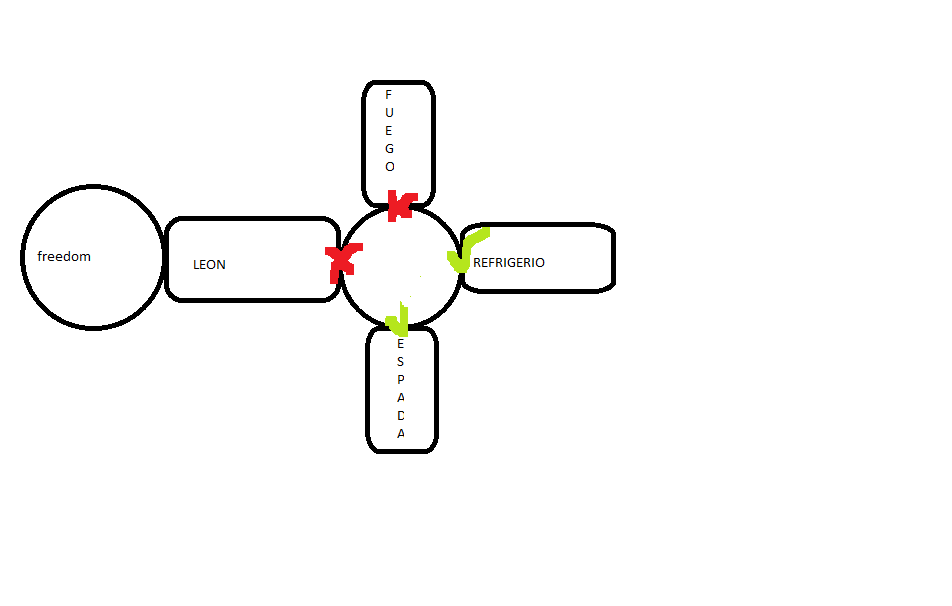
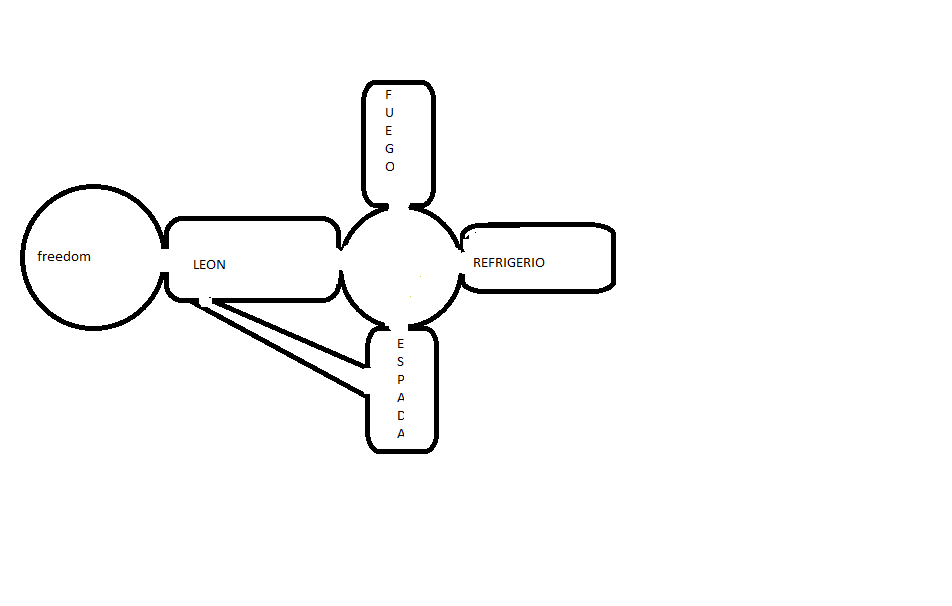
creada salida alternativa y mensajes de salas nuevos

diff --git a/Game.java b/Game.java
@@ -38,19 +38,18 @@ public class Game
 
         // create the rooms
         circulo = new Room("sala circular romana con puertas");
-        oeste = new Room("sala oeste");
-        este = new Room("sala este");
-        norte = new Room("sala norte");
-        sur = new Room("sala sur");
-        freedom = new Room("sala libertad");
+        oeste = new Room("sala oeste,hay un leon");
+        este = new Room("sala este,con refrigerio");
+        norte = new Room("sala norte,sala con fuego");
+        sur = new Room("sala sur , hay una espada");
+        freedom = new Room("sala libertad,has derrotado al leon y eres LIBRE");
 
         // initialise room exits
-        circulo.setExits(norte,este,sur,oeste);
-        oeste.setExits(null, circulo, null,freedom);
-        este.setExits(null, null, null, circulo);
-        norte.setExits( null,null, circulo, null);
-        sur.setExits( circulo, null,null,null);
-        
+        circulo.setExits(norte,este,sur,oeste,null);
+        oeste.setExits(null, circulo, null,freedom,sur);
+        este.setExits(null, null, null, circulo,null);
+        norte.setExits( null,null, circulo, null,null);
+        sur.setExits( circulo, null,null,null,null);
 
         currentRoom = circulo;  // start game outside
     }
@@ -84,7 +83,7 @@ public class Game
         System.out.println("Type 'help' if you need help.");
         System.out.println();
         printLocationInfo();
-        
+
         System.out.println();
     }
 
@@ -160,14 +159,18 @@ public class Game
         if(direction.equals("west")) {
             nextRoom = currentRoom.westExit;
         }
+        if (direction.equals("southeast"))
+        {
+            nextRoom = currentRoom.southEastExit;
+        }
 
         if (nextRoom == null) {
             System.out.println("There is no door!");
         }
         else {
             currentRoom = nextRoom;
-             printLocationInfo();
-            
+            printLocationInfo();
+
             System.out.println();
         }
     }
@@ -187,24 +190,28 @@ public class Game
             return true;  // signal that we want to quit
         }
     }
-   /**
-    * metodo para evitar la repeticion de codigo
-    */
-   private void printLocationInfo()
-   {
-       System.out.println("You are " + currentRoom.getDescription());
-            System.out.print("Exits: ");
-            if(currentRoom.northExit != null) {
-                System.out.print("north ");
-            }
-            if(currentRoom.eastExit != null) {
-                System.out.print("east ");
-            }
-            if(currentRoom.southExit != null) {
-                System.out.print("south ");
-            }
-            if(currentRoom.westExit != null) {
-                System.out.print("west ");
-            }
-   }
+
+    /**
+     * metodo para evitar la repeticion de codigo
+     */
+    private void printLocationInfo()
+    {
+        System.out.println("You are " + currentRoom.getDescription());
+        System.out.print("Exits: ");
+        if(currentRoom.northExit != null) {
+            System.out.print("north ");
+        }
+        if(currentRoom.eastExit != null) {
+            System.out.print("east ");
+        }
+        if(currentRoom.southExit != null) {
+            System.out.print("south ");
+        }
+        if(currentRoom.westExit != null) {
+            System.out.print("west ");
+        }
+        if(currentRoom.southEastExit != null) {
+            System.out.print("southeast ");
+        }
+    }
 }

diff --git a/Room.java b/Room.java
@@ -19,6 +19,7 @@ public class Room
     public Room southExit;
     public Room eastExit;
     public Room westExit;
+    public Room southEastExit;
 
     /**
      * Create a room described "description". Initially, it has
@@ -39,7 +40,7 @@ public class Room
      * @param south The south exit.
      * @param west The west exit.
      */
-    public void setExits(Room north, Room east, Room south, Room west) 
+    public void setExits(Room north, Room east, Room south, Room west,Room southEast) 
     {
         if(north != null)
             northExit = north;
@@ -49,6 +50,9 @@ public class Room
             southExit = south;
         if(west != null)
             westExit = west;
+        if(southEast !=null)
+            southEastExit = southEast; 
+            
     }
 
     /**
